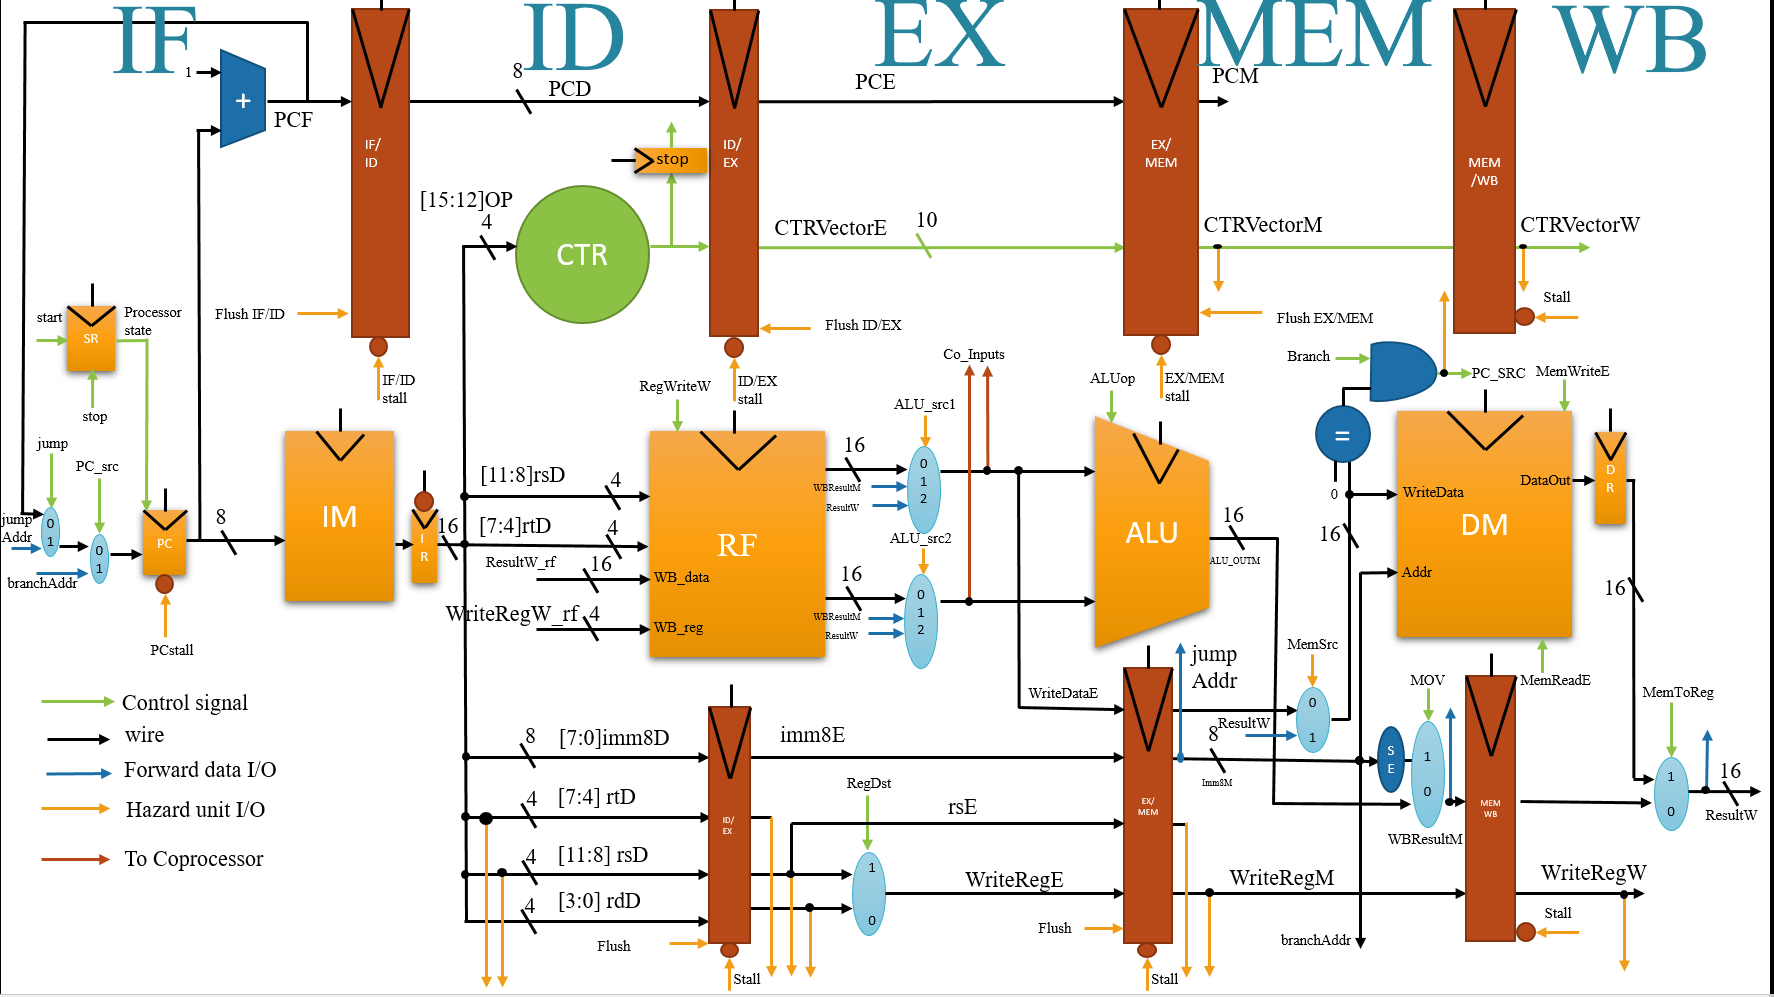
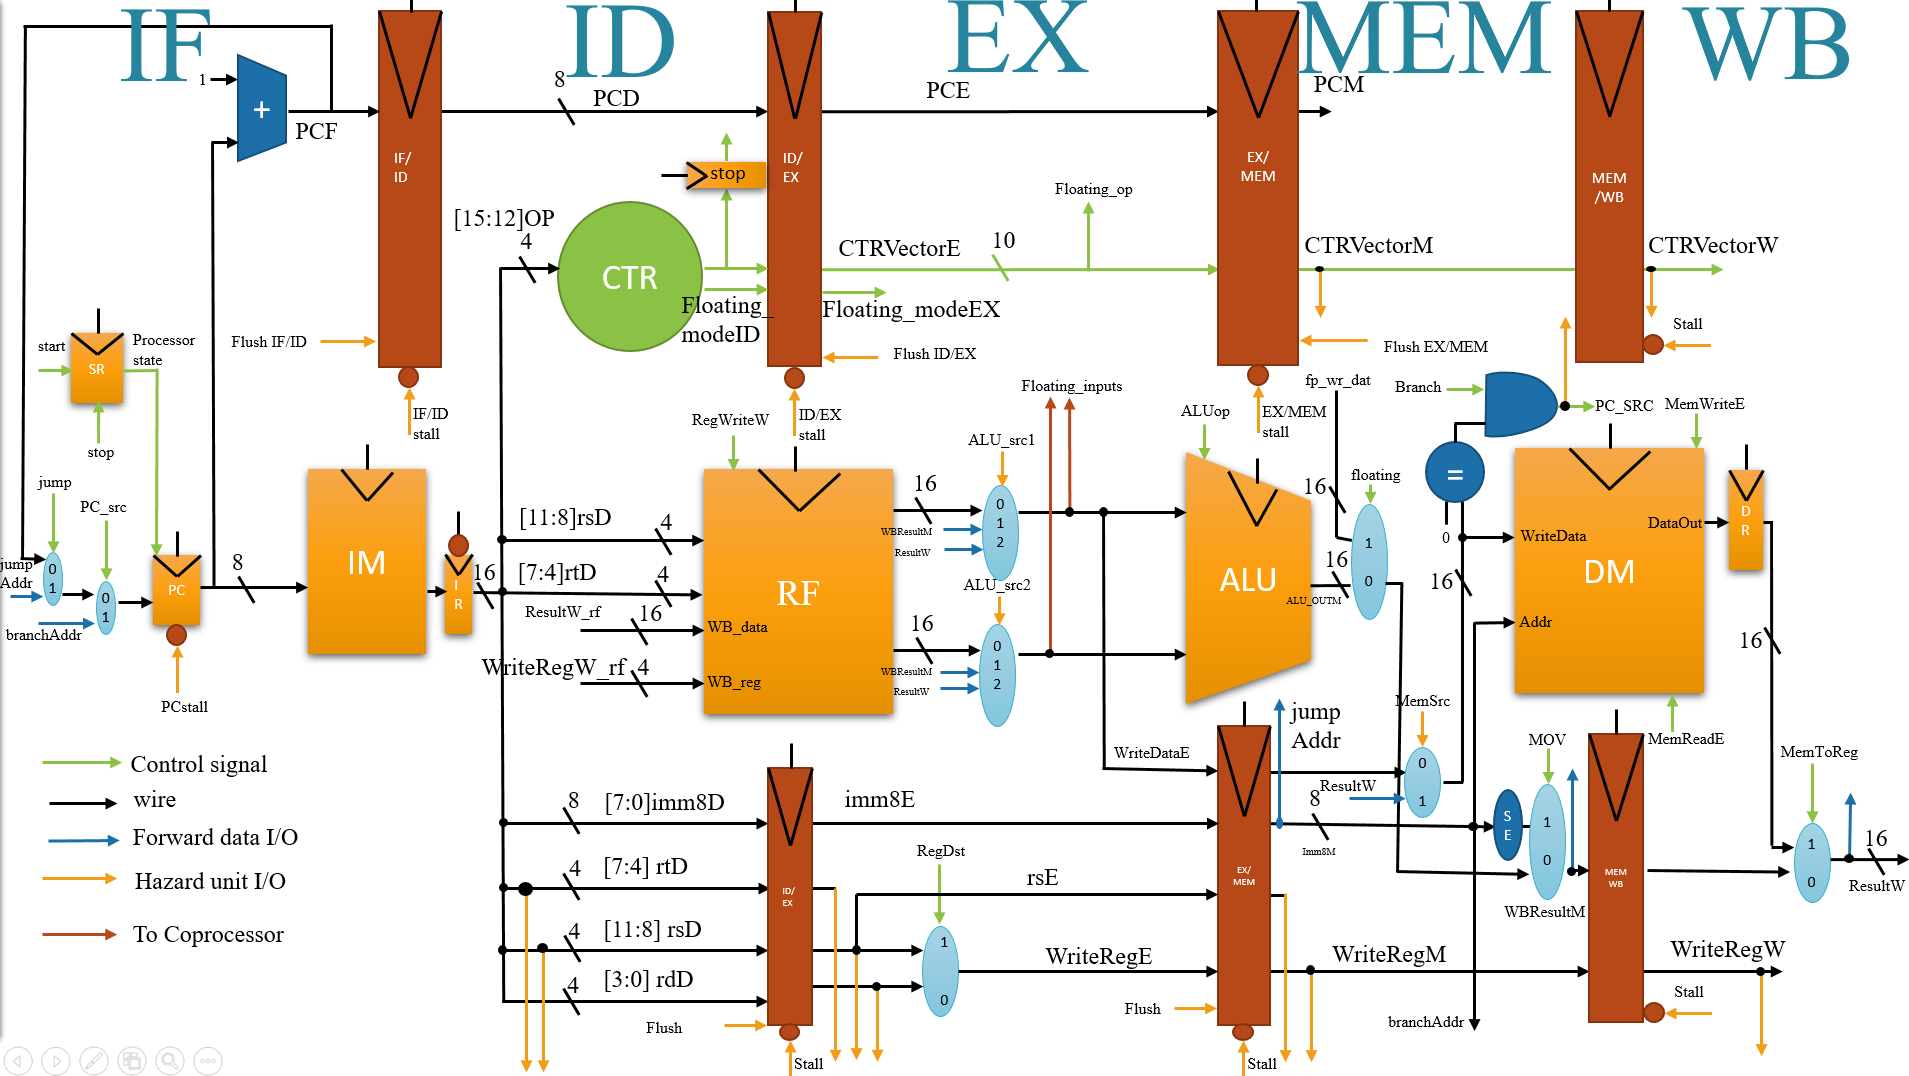
Testing FP coprocessor

diff --git a/README.md b/README.md
@@ -10,7 +10,7 @@
 
 
 ## Introduction
-1. A 16-bit 5-stage pipelined RISC Processor with floating point coprocessor is implemented, using a small set of Custom RISC ISA. In order to enhance performace, forwarding unit and hazard detection unit are also implemented to resolve the data hazard and control hazard.
+1. A 16-bit 5-stage pipelined RISC Processor with 8-bit floating point coprocessor is implemented, using a small set of Custom RISC ISA. In order to enhance performace, forwarding unit and hazard detection unit are also implemented to resolve the data hazard and control hazard.
 
 2.  The coprocessor is implemented using simplfied 16-bit IEEE format as an additional module.
 
@@ -25,6 +25,10 @@
 ## 5-stage RISC pipelined Processor
 ### ISA
 ![ISA](image/ISA_Instruction_Description.png)
+
+
+## 16-bit-IEEE-Floating point format
+![Floating point format](image/16-floating_point.png)
 
 ### System tree diagram
 ```mermaid
@@ -56,8 +60,6 @@
 
 ```
 
-
-
 ### Processor block diagram
 <br />![Processor](image/Processor.png)
 
@@ -72,6 +74,11 @@
 ## Hazard Unit
 
 ![HazardUnit](image/HazardUnits.png)
+
+
+# Floating point Arithmetic
+- To perform floating point arithmetic you have to first store the Data Memory, you cannot assign from imm8. It is prohibited.
+
 
 # Forwarding Condition
 >To solve Data hazard including R-R,sw-lw

diff --git a/16-bit-Pipelined-processor/sim/README.md b/16-bit-Pipelined-processor/sim/README.md
@@ -313,6 +313,58 @@ Machine Code
 
 
 ## Test6 (For Floating Point)
+Testing floating point arithmetic
+```C
+  short float a = 4.3;
+  short float b = 7.6;
+  short float c = 0.1;
+  D[3] = a + b;
+  D[4] = D[3] * a;
+
+  Result D[3] = 11.9, D[4] = 51.17;
 ```
+
+```python
+  //D[0] = 4.3 , D[1] = 7.6 , D[2] = 0.1
+  lw    $1 , 0
+  lw    $2 , 1
+  lw    $3 , 2
+  addf  $4,$1,$2  // $4 = 11.9
+  multf $5,$4,$1  // $5 = 51.17
+  sw    $4,3      // D[3] = 11.9
+  sw    $5,4      // D[4] = 51.17
+  nop
+  nop
+  nop
+  nop
+  stop
+  nop
+  nop
+  nop
+      .
+      .
+      .
+```
+## Machine Code
+```
+1 : 0000_0001_0000_0001  //lw    $1 , 0
+2 : 0000_0010_0000_0010  //lw    $2 , 1
+3 : 0000_0010_0000_0011  //lw    $3 , 2
+4 : 1000_0001_0010_0100  //addf  $4,$1,$2  // $4 = 11.9
+5 : 1001_0100_0001_0101  //multf $5,$4,$1  // $5 = 51.17
+6 : 0001_0010_0000_0011  //sw    $4,3      // D[3] = 11.9
+7 : 0001_0101_0000_0100  //sw    $5,4      // D[4] = 51.17
+8 : 1111_0000_0000_0000  //nop
+9 : 1111_0000_0000_0000  //nop
+    1111_0000_0000_0000  //nop
+    1111_0000_0000_0000  //nop
+
+
+        .
+        .
+        .
+        .
+        .
+
 
 ```
